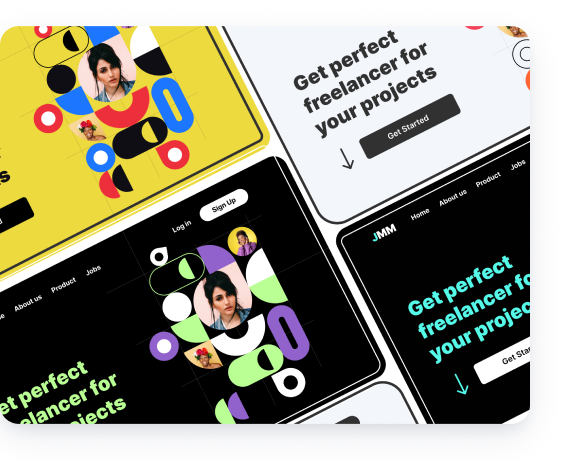
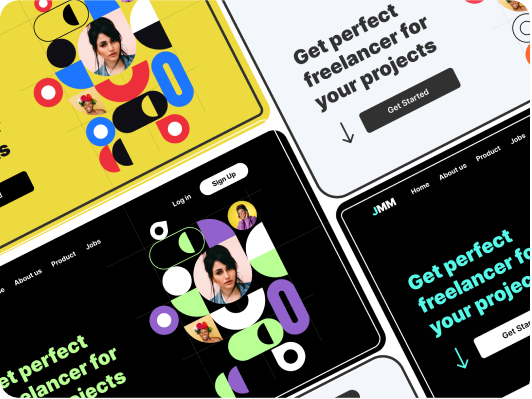
project section responsive updated

diff --git a/index.html b/index.html
@@ -233,13 +233,13 @@
             <section class="project-section">
                 <div class="container">
                     <div class="project-items">
-                        <h3>My <span>Projects</span></h3>
+                        <h3 class="similar-heading">My <span>Projects</span></h3>
                         <div class="project-item">
-                            <div class="img-area">
+                            <div class="img-area item-img">
                                 <img src="./assets/project1.png" alt="">
                             </div>
-                            <div class="text-area">
-                                <span class="numbar">01</span>
+                            <div class="text-area item-para ">
+                                <span class="numbar ">01</span>
                                 <h3>Crypto Screener Application</h3>
                                 <p>I'm Evren Shah Lorem Ipsum is simply dummy text of the printing and typesetting
                                     industry. Lorem Ipsum has been the
@@ -250,7 +250,7 @@
                             </div>
                         </div>
                         <div class="project-item">
-                            <div class="text-area">
+                            <div class="text-area item-para">
                                 <span class="numbar">02</span>
                                 <h3>Euphoria - Ecommerce (Apparels) Website Templatesd5rt4</h3>
                                 <p>I'm Evren Shah Lorem Ipsum is simply dummy text of the printing and typesetting
@@ -261,15 +261,15 @@
                                     when an unknown printer took a galley of type and scrambled it to specimen book.</p>
                                 <img src="./assets/link-icon.svg" alt="">
                             </div>
-                            <div class="img-area">
+                            <div class="img-area item-img">
                                 <img src="./assets/project2.png" alt="">
                             </div>
                         </div>
                         <div class="project-item">
-                            <div class="img-area">
+                            <div class="img-area item-img">
                                 <img src="./assets/project1.png" alt="">
                             </div>
-                            <div class="text-area">
+                            <div class="text-area item-para">
                                 <span class="numbar">03</span>
                                 <h3>Blog Website Template</h3>
                                 <p>I'm Evren Shah Lorem Ipsum is simply dummy text of the printing and typesetting

diff --git a/css/style.css b/css/style.css
@@ -512,6 +512,26 @@ footer .footer-section {
   .about-section .about-img img {
     width: 100%;
   }
+  .project-section .project-item {
+    flex-direction: column;
+  }
+  .project-section .project-item .img-area img {
+    width: 100%;
+  }
+  .project-section .project-item .text-area > .numbar {
+    font-size: 24px !important;
+  }
+  .project-section .project-item .text-area > h3, .project-section .project-item .text-area > .h3 {
+    font-size: 20px !important;
+    padding: 0;
+    margin-top: 0 !important;
+  }
+  .project-section .project-item .item-para {
+    order: 2;
+  }
+  .project-section .project-item .item-img {
+    order: 1;
+  }
 }
 /*!
  * Bootstrap  v5.3.3 (https://getbootstrap.com/)

diff --git a/scss/_responsive.scss b/scss/_responsive.scss
@@ -72,4 +72,28 @@
       }
     }
   }
+  .project-section {
+    .project-item {
+      flex-direction: column;
+      .img-area {
+        img {
+          width: 100%;
+        }
+      }
+      & .text-area > .numbar {
+        font-size: 24px !important;
+      }
+      & .text-area > h3 {
+        font-size: 20px !important;
+        padding: 0;
+        margin-top: 0 !important;
+      }
+      .item-para {
+        order: 2;
+      }
+      .item-img {
+        order: 1;
+      }
+    }
+  }
 }
